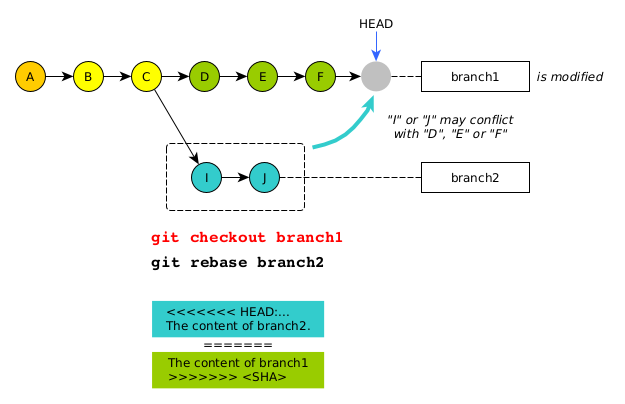
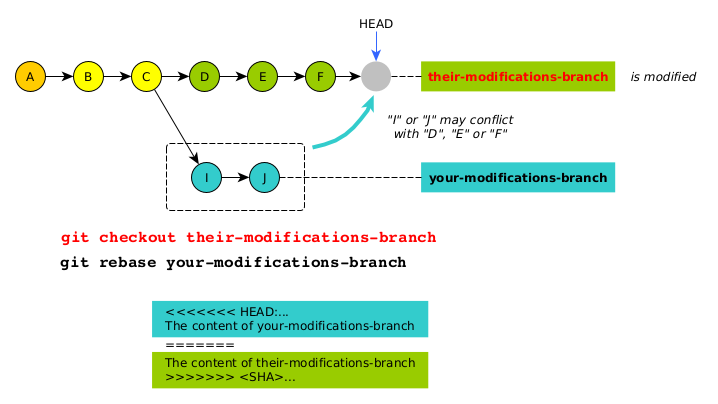
Fix errors

diff --git a/README.md b/README.md
@@ -597,35 +597,45 @@ Now, you can push the downloaded modifications to your distant forked repository
 
 Now, your _forked project repository_ is synchronized with the _official project repository_.
 
-# Reading git conflict
+# Reading git conflict. What is "yours" and "theirs" ?
+
+Official explanation: [HOW CONFLICTS ARE PRESENTED](https://git-scm.com/docs/git-merge#_how_conflicts_are_presented)
+
+In a nutshell:
+
+    <<<<<<< yours:sample.txt
+    Conflict resolution is hard;
+    let's go shopping.
+    =======
+    Git makes conflict resolution easy.
+    >>>>>>> theirs:sample.txt
 
 ## Rebase
 
 We do:
 
-    git checkout branch1
-    git rebase branch2
+    git checkout their-modifications-branch
+    git rebase your-modifications-branch
 
-> * we are on `branch1`.
-> * We modify `branch1`.
-> * We try to append commits from `branch2` to `branch1`.
-    Thus, **`HEAD` _always_ refers to **a commit** from `branch2`**.
+**Vocabulary**: we say that `their-modifications-branch` is _rebased onto_ `your-modifications-branch` ([source](https://git-scm.com/book/en/v2/Git-Branching-Rebasing)).
 
-In a nutshell:
+> * we are on `their-modifications-branch`.
+> * We modify `their-modifications-branch`.
+> * `HEAD` _always_ refers to a commit _coming from_ `your-modifications-branch`.
+>
+> The names of the branches in this example are not necessarily appropriate, relatively to the context.
+> That is, depending on _who_ is doing the _rebase_ (relatively to the modifications author).
+> That's why it can be confusing.
+
+Thus:
 
     <<<<<<< HEAD:...
-    The content of branch2.
+    Your modifications.
     =======
-    The content of branch1 (which history is appended).
+    Their modifications.
     >>>>>>> 3959352...
 
 ![](images/git-rebase-conflict.png)
-
-We try to append a commit from `branch2` to the `HEAD`. But there is a copnflict.
-We need to choose which commit we want to keep: the one from `branch1` ? Or the one from `branch2` (`HEAD`) ?
-
-* When you see "_Resove using ours_", "ours" refers to `HEAD` (so, with what's in between "`<<<<<<<`" and "`=======`").
-* When you see "_Resove using theirs_", "theirs" refers to _the commit to append_ (so, with what's in between "`=======`" and "`>>>>>>>`").
 
 # Quick "do / undo"
 
@@ -646,12 +656,13 @@ We need to choose which commit we want to keep: the one from `branch1` ? Or the 
 
 ## Work with branches
 
-
 Will remove commits included in the interval `]<new parent>, <last commit to remove>]`.
 
 Ideal arrangement (no conflict):
 
 ![](images/git-rebase-1-brief.png)
+
+> **Vocabulary**: we say that `master` is _rebased onto_ `feature` ([source](https://git-scm.com/book/en/v2/Git-Branching-Rebasing)).
 
 However, be aware that conflicts may disturb this ideal arrangement.
 
